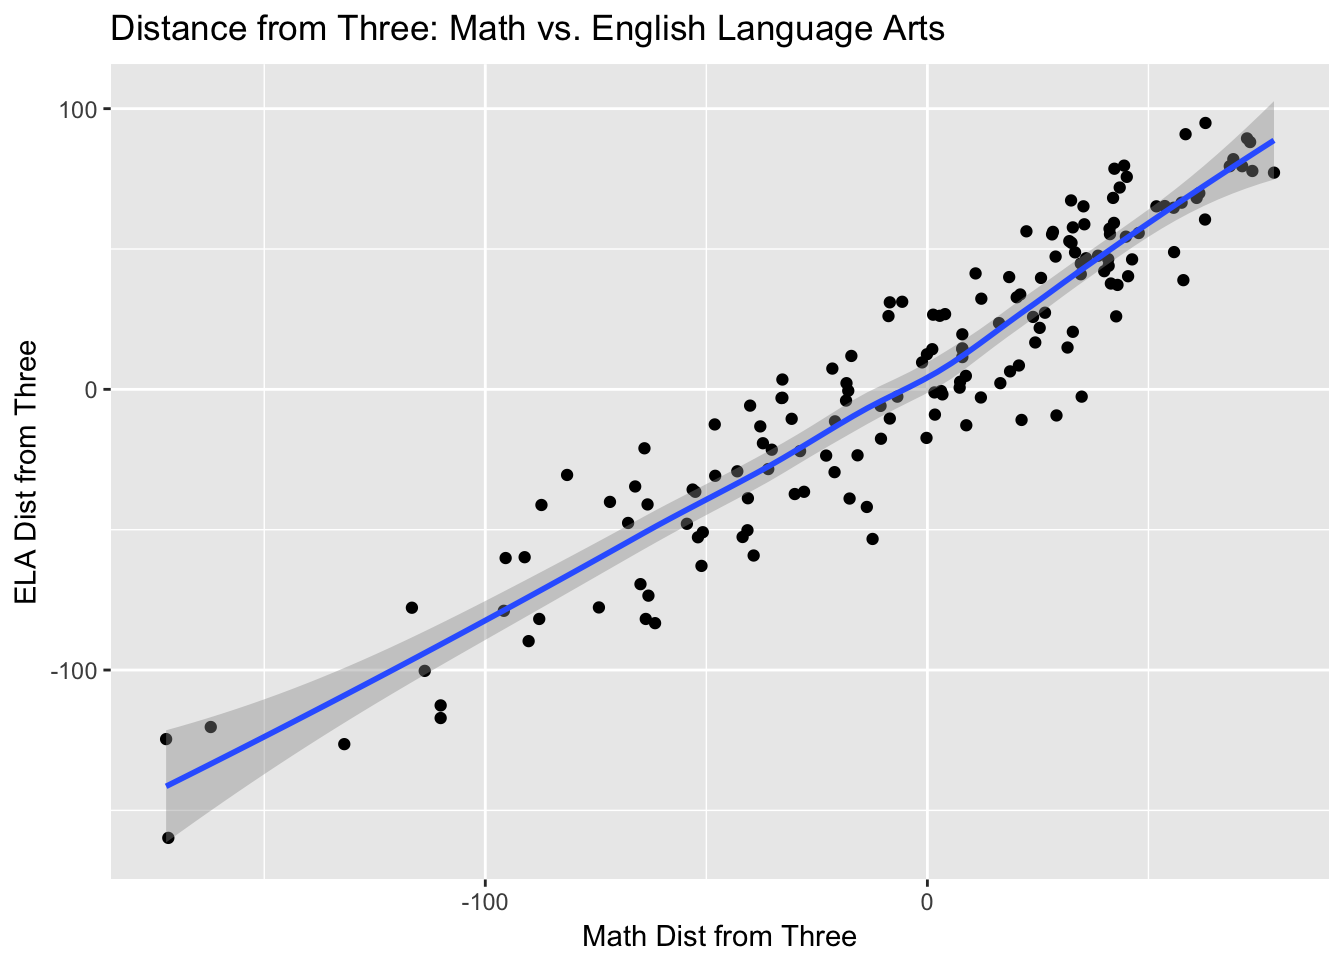
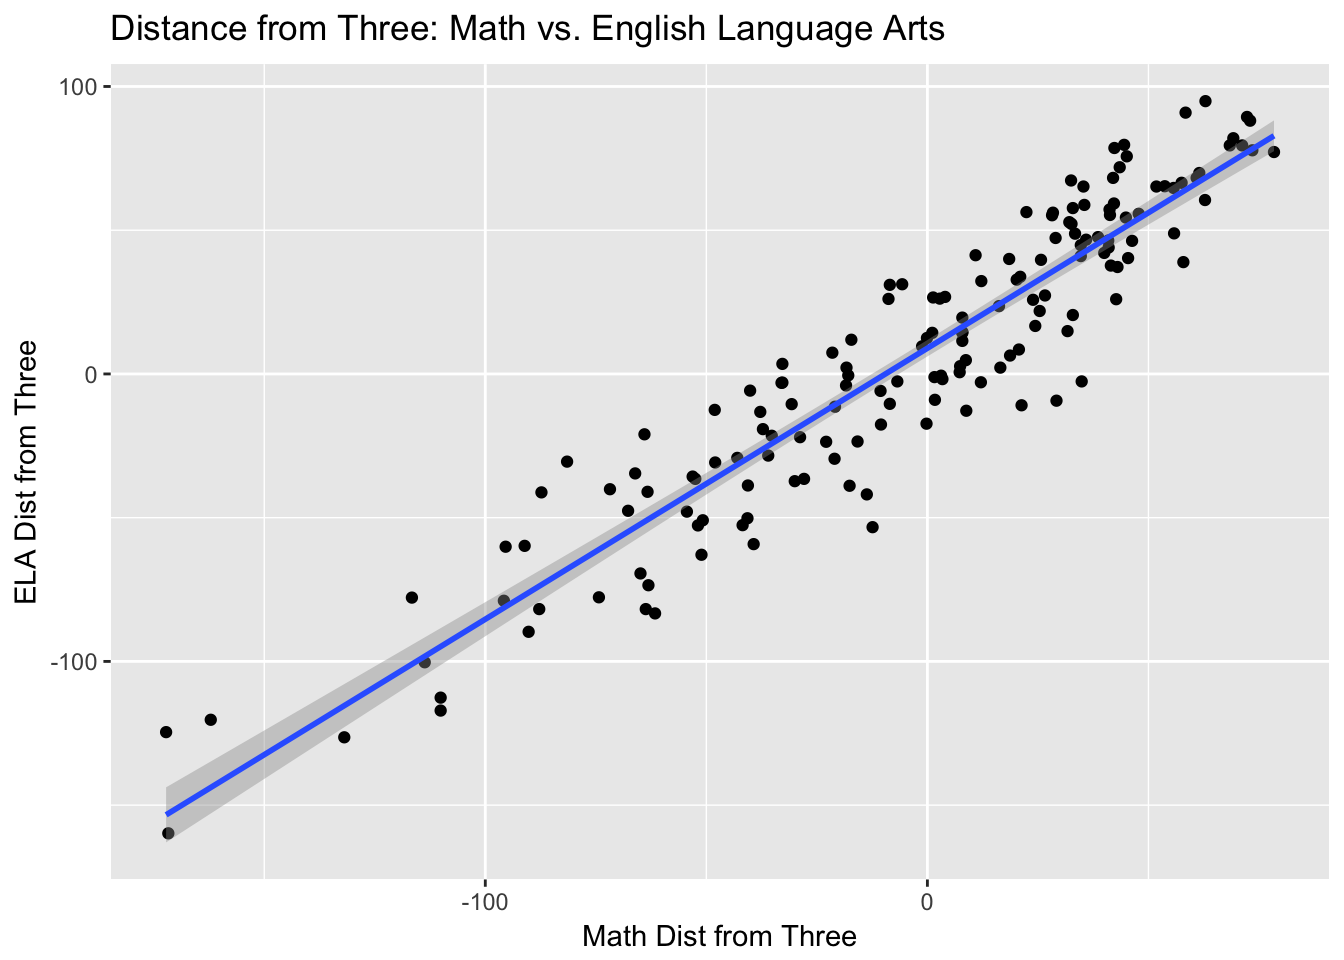
Add narrative

diff --git a/content/post/2018-03-28-california-school-dashboards-part-3-modeling-the-data.html b/content/post/2018-03-28-california-school-dashboards-part-3-modeling-the-data.html
@@ -12,43 +12,29 @@ draft: TRUE
 
 
 
+<p>If we plot the distance from three score of math on the x-axis and the distance from three score of English language arts for each school’s subgroup in <code>district_1</code>, we see that there is a pretty clear linear pattern.</p>
 <pre><code>## Warning: Removed 37 rows containing non-finite values (stat_smooth).</code></pre>
 <pre><code>## Warning: Removed 37 rows containing missing values (geom_point).</code></pre>
 <p><img src="/post/2018-03-28-california-school-dashboards-part-3-modeling-the-data_files/figure-html/unnamed-chunk-4-1.png" width="672" /></p>
-<pre><code>## # A tibble: 9 x 2
-##   districtname data                
-##   &lt;chr&gt;        &lt;list&gt;              
-## 1 district_1   &lt;tibble [183 × 4]&gt;  
-## 2 district_2   &lt;tibble [319 × 4]&gt;  
-## 3 district_3   &lt;tibble [1,162 × 4]&gt;
-## 4 district_4   &lt;tibble [45 × 4]&gt;   
-## 5 district_5   &lt;tibble [141 × 4]&gt;  
-## 6 district_6   &lt;tibble [1,037 × 4]&gt;
-## 7 district_7   &lt;tibble [200 × 4]&gt;  
-## 8 district_8   &lt;tibble [1,201 × 4]&gt;
-## 9 district_9   &lt;tibble [36 × 4]&gt;</code></pre>
+<p>The line drawn through the plot is the model fit. That means that it goes through the plot in a straight line to best follow the relationship between the math distance of three and the English language arts distance from three in this dataset. This relationship is quantified by the model, but we won’t go into that here because we’re more interested in how well this model predicted scores for each school’s subgroup. We’re interested in looking at the differences between predictions and actual data points and how that looks similar or different for each school’s subgroups.</p>
+<p>In order to compare this model fit to all nine of our districts, I arranged the data so that each row was a district and their dataset. I then fit a linear model to each district and calculated the differences between the predicted values and actual values. These differences are stored in a column called <code>resid</code> (short for <a href="https://en.wikipedia.org/wiki/Errors_and_residuals">residuals</a>).</p>
+<p>Here is some of the code for getting that done. Feel free to skip to the plots if you want to start examing the results.</p>
+<p>I used a function for the linear model so I can apply it to all nine datasets using the <code>purrr</code> package.</p>
 <pre class="r"><code>dist_mod &lt;- function(d) {
   lm(currstatus_ela ~ currstatus_math, data = d)
 }</code></pre>
+<p>Next I used <code>modelr::add_residuals</code> to add the residuals.</p>
 <pre class="r"><code>mods &lt;- comb %&gt;% 
   mutate(model = map(data, dist_mod), 
-         resids = map2(data, model, add_residuals)) 
-mods</code></pre>
-<pre><code>## # A tibble: 9 x 4
-##   districtname data                 model    resids              
-##   &lt;chr&gt;        &lt;list&gt;               &lt;list&gt;   &lt;list&gt;              
-## 1 district_1   &lt;tibble [183 × 4]&gt;   &lt;S3: lm&gt; &lt;tibble [183 × 5]&gt;  
-## 2 district_2   &lt;tibble [319 × 4]&gt;   &lt;S3: lm&gt; &lt;tibble [319 × 5]&gt;  
-## 3 district_3   &lt;tibble [1,162 × 4]&gt; &lt;S3: lm&gt; &lt;tibble [1,162 × 5]&gt;
-## 4 district_4   &lt;tibble [45 × 4]&gt;    &lt;S3: lm&gt; &lt;tibble [45 × 5]&gt;   
-## 5 district_5   &lt;tibble [141 × 4]&gt;   &lt;S3: lm&gt; &lt;tibble [141 × 5]&gt;  
-## 6 district_6   &lt;tibble [1,037 × 4]&gt; &lt;S3: lm&gt; &lt;tibble [1,037 × 5]&gt;
-## 7 district_7   &lt;tibble [200 × 4]&gt;   &lt;S3: lm&gt; &lt;tibble [200 × 5]&gt;  
-## 8 district_8   &lt;tibble [1,201 × 4]&gt; &lt;S3: lm&gt; &lt;tibble [1,201 × 5]&gt;
-## 9 district_9   &lt;tibble [36 × 4]&gt;    &lt;S3: lm&gt; &lt;tibble [36 × 5]&gt;</code></pre>
+         resids = map2(data, model, add_residuals)) </code></pre>
+<p>Finally I used <code>dplyr:unnest</code> to open up the dataset so that each residual value had it’s own row.</p>
 <pre class="r"><code>resids &lt;- mods %&gt;% 
   unnest(resids)</code></pre>
-<p>The original dataset did not include distance from three scores for any subgroup that had less than 11 students.</p>
+<p><strong>A note on missing values</strong></p>
+<p><strong>The original dataset did not include distance from three scores for any subgroup that had less than 11 students. This is a typical practice with education data and is usually done to maintain student confidentiality. Consdquently, there is a pretty sizeable amount of subgroups that are missing distance from three scores.</strong></p>
+<div id="visualizing-the-differences-between-prediction-and-actual-datapoints" class="section level1">
+<h1>Visualizing the Differences Between Prediction and Actual Datapoints</h1>
+<p>If we create a plot that has the distance from three scores (our predictor) in the x-axis and the residuals (a.k.a., difference between predicted and actual values in the y-axis) for each district, we get the following:</p>
 <pre class="r"><code>ggplot(data = resids, aes(x = currstatus_math, y = resid)) + 
   geom_point(alpha = .25) + 
   facet_wrap(~ districtname) + 
@@ -78,3 +64,4 @@ mods</code></pre>
 <pre><code>## Warning: Removed 1356 rows containing missing values (geom_point).</code></pre>
 <p><img src="/post/2018-03-28-california-school-dashboards-part-3-modeling-the-data_files/figure-html/unnamed-chunk-13-1.png" width="672" /></p>
 <p>When the residuals are negative, the actual datapoint was lower than what the model thought it should be.</p>
+</div>
